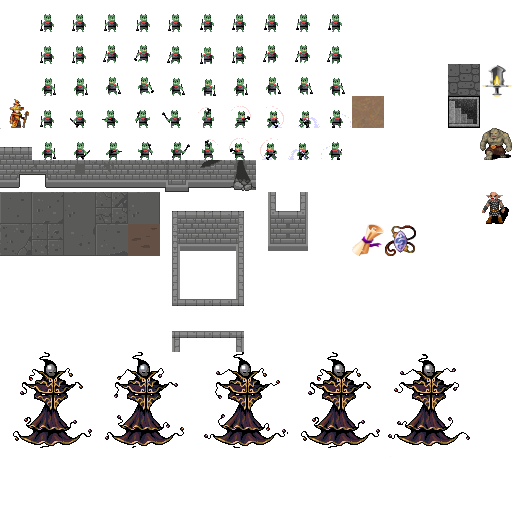
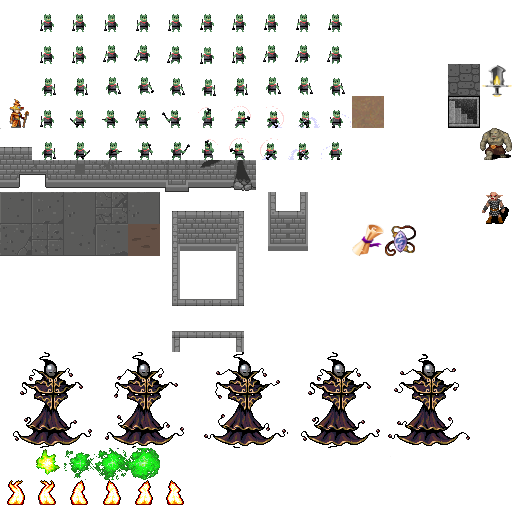
fix the animations for monster movements

Changed region(s): [[0.0, 0.875, 0.375, 1.0]]

diff --git a/src/systems/homing.rs b/src/systems/homing.rs
@@ -6,6 +6,7 @@ use crate::prelude::*;
 #[read_component(Homing)]
 #[read_component(Enemy)]
 #[read_component(RangedSprite)]
+#[read_component(MovableSprite)]
 pub fn homing(#[resource] map: &Map, ecs: &SubWorld, commands: &mut CommandBuffer) {
     let mut player = <(Entity, &Point)>::query().filter(component::<Player>());
 
@@ -66,38 +67,86 @@ pub fn homing(#[resource] map: &Map, ecs: &SubWorld, commands: &mut CommandBuffe
         }
     });
 
-    let mut moving_enemies =
-        <(Entity, &Point)>::query().filter(component::<Homing>() & component::<Enemy>());
+    let mut moving_enemies = <(Entity, &Point, &MovableSprite)>::query()
+        .filter(component::<Homing>() & component::<Enemy>());
 
-    moving_enemies.iter(ecs).for_each(|(entity, pos)| {
-        let idx = map_idx(pos.x, pos.y);
-        if let Some(destination) = DijkstraMap::find_lowest_exit(&dijkstra_map, idx, map) {
-            let distance = DistanceAlg::Pythagoras.distance2d(*pos, *player_pos);
-            let destination = if distance > 1.2 {
-                map.index_to_point2d(destination)
-            } else {
-                *player_pos
-            };
+    moving_enemies
+        .iter(ecs)
+        .for_each(|(entity, pos, movable_sprite)| {
+            let idx = map_idx(pos.x, pos.y);
+            if let Some(destination) = DijkstraMap::find_lowest_exit(&dijkstra_map, idx, map) {
+                let distance = DistanceAlg::Pythagoras.distance2d(*pos, *player_pos);
+                let destination = if distance > 1.2 {
+                    map.index_to_point2d(destination)
+                } else {
+                    *player_pos
+                };
 
-            if destination == *player_pos {
-                commands.push((
-                    (), 
-                    WantsToAttack {
-                        attacker: *entity, 
-                        victim: *player_entity
+                if destination == *player_pos {
+                    commands.push((
+                        (),
+                        WantsToAttack {
+                            attacker: *entity,
+                            victim: *player_entity,
+                        },
+                    ));
+
+                    if movable_sprite.mode == MovableSpriteMode::LeftMove
+                        || movable_sprite.mode == MovableSpriteMode::LeftAttack
+                    {
+                        commands.push((
+                            (),
+                            WantsToChangeMovableSpriteMode {
+                                entity: *entity,
+                                mode: MovableSpriteMode::LeftAttack,
+                            },
+                        ));
+                    } else {
+                        commands.push((
+                            (),
+                            WantsToChangeMovableSpriteMode {
+                                entity: *entity,
+                                mode: MovableSpriteMode::RightAttack,
+                            },
+                        ));
                     }
-                ));
-            } else {
-                commands.push((
-                    (), 
-                    WantsToMove {
-                        entity: *entity, 
-                        destination
+                } else {
+                    commands.push((
+                        (),
+                        WantsToMove {
+                            entity: *entity,
+                            destination,
+                        },
+                    ));
+
+                    let delta = destination - *pos;
+                    if delta == Point::new(0, 1) || delta == Point::new(0, -1) {
+                    } else if delta == Point::new(-1, 0) {
+                        commands.push((
+                            (),
+                            WantsToChangeMovableSpriteMode {
+                                entity: *entity,
+                                mode: MovableSpriteMode::LeftMove,
+                            },
+                        ));
+                    } else if delta == Point::new(1, 0) {
+                        commands.push((
+                            (),
+                            WantsToChangeMovableSpriteMode {
+                                entity: *entity,
+                                mode: MovableSpriteMode::RightMove,
+                            },
+                        ));
+                    } else {
+                        commands.push((
+                            (),
+                            WantsToChangeMovableSpriteMode {
+                                entity: *entity,
+                                mode: MovableSpriteMode::Idle,
+                            },
+                        ));
                     }
-                ));
+                }
             }
-
-        }
-    });
-    
+        });
 }

diff --git a/src/systems/entity_render.rs b/src/systems/entity_render.rs
@@ -1,7 +1,5 @@
 use crate::prelude::*;
 
-//TRY TO MERGE ALL THE RENDERABLE COMPONENETS INTO ONE
-
 #[system]
 #[read_component(Point)]
 #[read_component(MovableRender)]
@@ -63,7 +61,7 @@ pub fn immovable_entity_render_3x3(
     #[resource] frame_num: &usize,
 ) {
     let mut draw_batch = DrawBatch::new();
-    draw_batch.target(1);
+    draw_batch.target(2);
     let offset = Point::new(camera.left_x, camera.top_y);
 
     <(&Point, &ImmovableRender3x3)>::query()
@@ -94,7 +92,7 @@ pub fn single_missile_entity_render(
     #[resource] frame_num: &usize,
 ) {
     let mut draw_batch = DrawBatch::new();
-    draw_batch.target(1);
+    draw_batch.target(2);
     let offset = Point::new(camera.left_x, camera.top_y);
 
     <(&Point, &RangedRender, &RangedSprite)>::query()
@@ -131,7 +129,7 @@ pub fn splash_missile_entity_render(
     #[resource] frame_num: &usize,
 ) {
     let mut draw_batch = DrawBatch::new();
-    draw_batch.target(1);
+    draw_batch.target(2);
     let offset = Point::new(camera.left_x, camera.top_y);
 
     <(&Point, &RangedRender, &RangedSprite, &AreaOfEffect)>::query()

diff --git a/src/systems/mod.rs b/src/systems/mod.rs
@@ -23,8 +23,9 @@ pub fn build_input_scheduler() -> Schedule {
 
 pub fn build_player_scheduler() -> Schedule {
     Schedule::builder()
-        .add_system(combat::combat_system())
         .add_system(movement::movement_system())
+        .flush()
+        .add_system(combat::combat_system())
         .flush()
         .add_system(map_render::map_render_system())
         .add_system(entity_render::movable_entity_render_system())
@@ -38,10 +39,10 @@ pub fn build_player_scheduler() -> Schedule {
 
 pub fn build_monster_scheduler() -> Schedule {
     Schedule::builder()
+        .add_system(movement::movement_system())
+        .flush()
         .add_system(combat::combat_system())
         .add_system(combat::auto_reduce_health_system())
-        .flush()
-        .add_system(movement::movement_system())
         .flush()
         .add_system(homing::homing_system())
         .flush()
